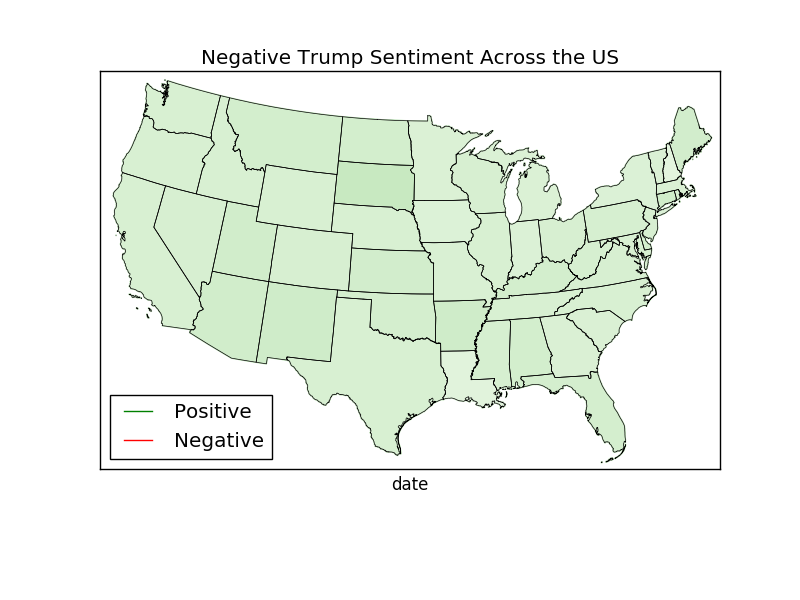
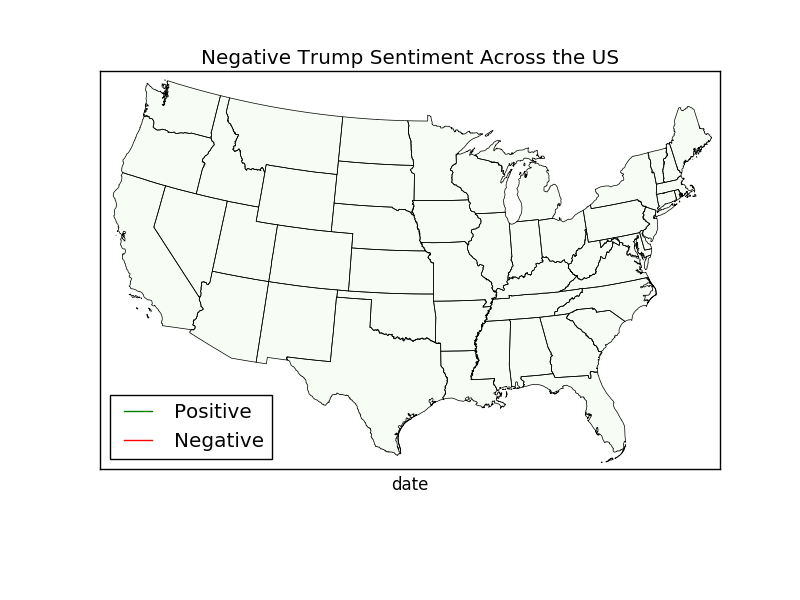
get lost in the sauce

Changed region(s): [[0.125, 0.12, 0.9062, 0.75]]

diff --git a/Project 2B/p2b_plots.py b/Project 2B/p2b_plots.py
@@ -86,7 +86,7 @@ pos_colors = {}
 statenames = []
 pos_cmap = plt.cm.Greens # use 'hot' colormap
 
-vmin = 0; vmax = 1 # set range.
+vmin = 0; vmax = 0.1 # set range.
 for shapedict in m.states_info:
     statename = shapedict['NAME']
     # skip DC and Puerto Rico.
